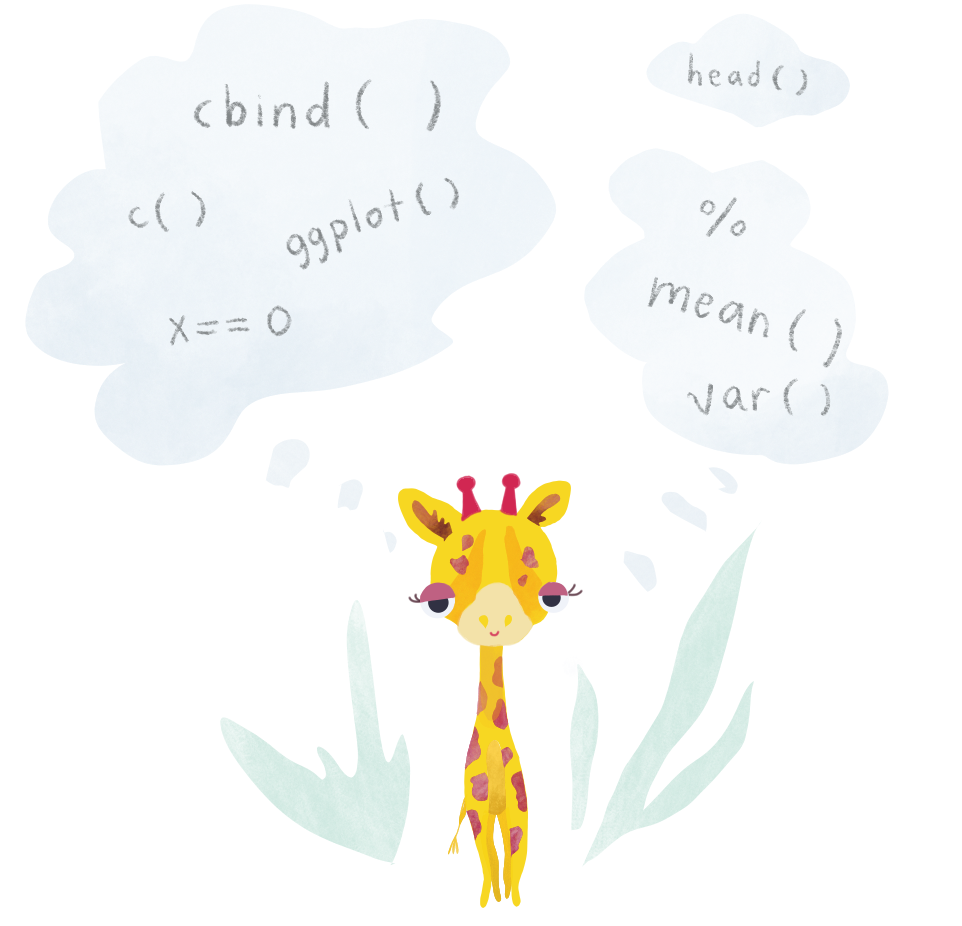
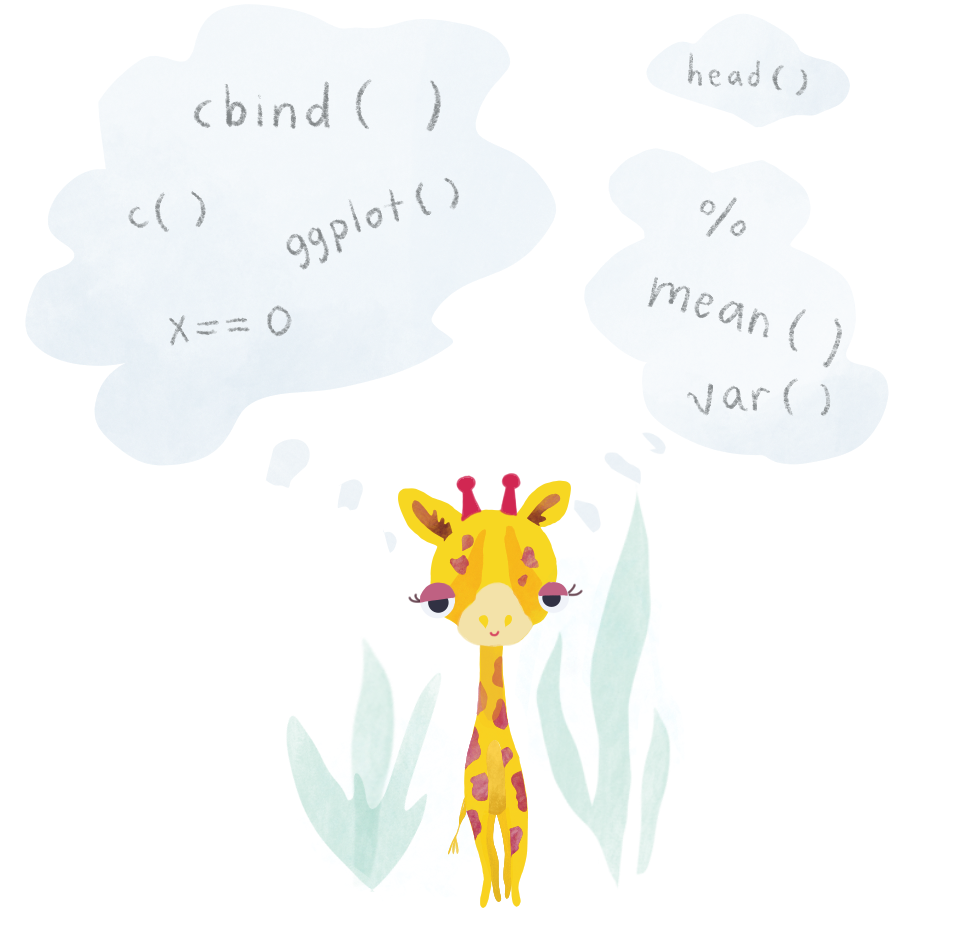
Adds flex-direction: row-reverse to Landing Page and modifies landing images

Changed region(s): [[0.5613, 0.5443, 0.7796, 0.9374], [0.2183, 0.6652, 0.4678, 0.9676]]

diff --git a/docs/style.css b/docs/style.css
@@ -170,20 +170,6 @@ body, html {
   height: 100%;
 }
 
-.parallax-main-image { 
-  /* The image used */
-  background-image: url("giraffe_forest_dpi72.png");
-
-  /* Set a specific height */
-  height: 100%; 
-
-  /* Create the parallax scrolling effect */
-  background-attachment: fixed;
-  background-position: center;
-  background-repeat: no-repeat;
-  background-size: cover;
-}
-
 
 
 /*.big_image is for module pages*/
@@ -274,6 +260,10 @@ body, html {
   margin: 0 auto;
 }
 
+.back-panel-contents_row-reverse {
+  flex-direction: row-reverse;
+}
+
 .color-textbox {
   width:70%;
   background: #4accc2;
@@ -310,6 +300,7 @@ body, html {
   width:30%;
   margin-bottom: 3em;
 }
+
 
 .images-landing {
   margin-bottom: 0em !important;

diff --git a/style.css b/style.css
@@ -170,20 +170,6 @@ body, html {
   height: 100%;
 }
 
-.parallax-main-image { 
-  /* The image used */
-  background-image: url("giraffe_forest_dpi72.png");
-
-  /* Set a specific height */
-  height: 100%; 
-
-  /* Create the parallax scrolling effect */
-  background-attachment: fixed;
-  background-position: center;
-  background-repeat: no-repeat;
-  background-size: cover;
-}
-
 
 
 /*.big_image is for module pages*/
@@ -274,6 +260,10 @@ body, html {
   margin: 0 auto;
 }
 
+.back-panel-contents_row-reverse {
+  flex-direction: row-reverse;
+}
+
 .color-textbox {
   width:70%;
   background: #4accc2;
@@ -310,6 +300,7 @@ body, html {
   width:30%;
   margin-bottom: 3em;
 }
+
 
 .images-landing {
   margin-bottom: 0em !important;

diff --git a/Landing_page.html b/Landing_page.html
@@ -25,8 +25,8 @@
 			<div class="color-textbox-text"> A series of modules that teach in an intuitive, playful, and approachable way.</div>
 		</div>
 	</div>
-	<div class="back-panel-contents">
-		<div class="landing-subimage" style="{float: right;}"> <img class="images-landing" src="Landing2.png"> </div>
+	<div class="back-panel-contents back-panel-contents_row-reverse">
+		<div class="landing-subimage"> <img class="images-landing" src="Landing2.png"> </div>
 		<div class="color-textbox color-textbox-blue">
 			<div class="color-textbox-title">For students, scientists, & stats-enthusiasts </div>
 			<div class="color-textbox-text">Materials that will help you start from scratch or deepen your familiarity with statistics.</div>

diff --git a/docs/Landing_page.html b/docs/Landing_page.html
@@ -25,8 +25,8 @@
 			<div class="color-textbox-text"> A series of modules that teach in an intuitive, playful, and approachable way.</div>
 		</div>
 	</div>
-	<div class="back-panel-contents">
-		<div class="landing-subimage" style="{float: right;}"> <img class="images-landing" src="Landing2.png"> </div>
+	<div class="back-panel-contents back-panel-contents_row-reverse">
+		<div class="landing-subimage"> <img class="images-landing" src="Landing2.png"> </div>
 		<div class="color-textbox color-textbox-blue">
 			<div class="color-textbox-title">For students, scientists, & stats-enthusiasts </div>
 			<div class="color-textbox-text">Materials that will help you start from scratch or deepen your familiarity with statistics.</div>

diff --git a/docs/index.html b/docs/index.html
@@ -52,8 +52,8 @@
 			<div class="color-textbox-text"> A series of modules that teach in an intuitive, playful, and approachable way.</div>
 		</div>
 	</div>
-	<div class="back-panel-contents">
-		<div class="landing-subimage" style="{float: right;}"> <img class="images-landing" src="Landing2.png"> </div>
+	<div class="back-panel-contents back-panel-contents_row-reverse">
+		<div class="landing-subimage"> <img class="images-landing" src="Landing2.png"> </div>
 		<div class="color-textbox color-textbox-blue">
 			<div class="color-textbox-title">For students, scientists, & stats-enthusiasts </div>
 			<div class="color-textbox-text">Materials that will help you start from scratch or deepen your familiarity with statistics.</div>
